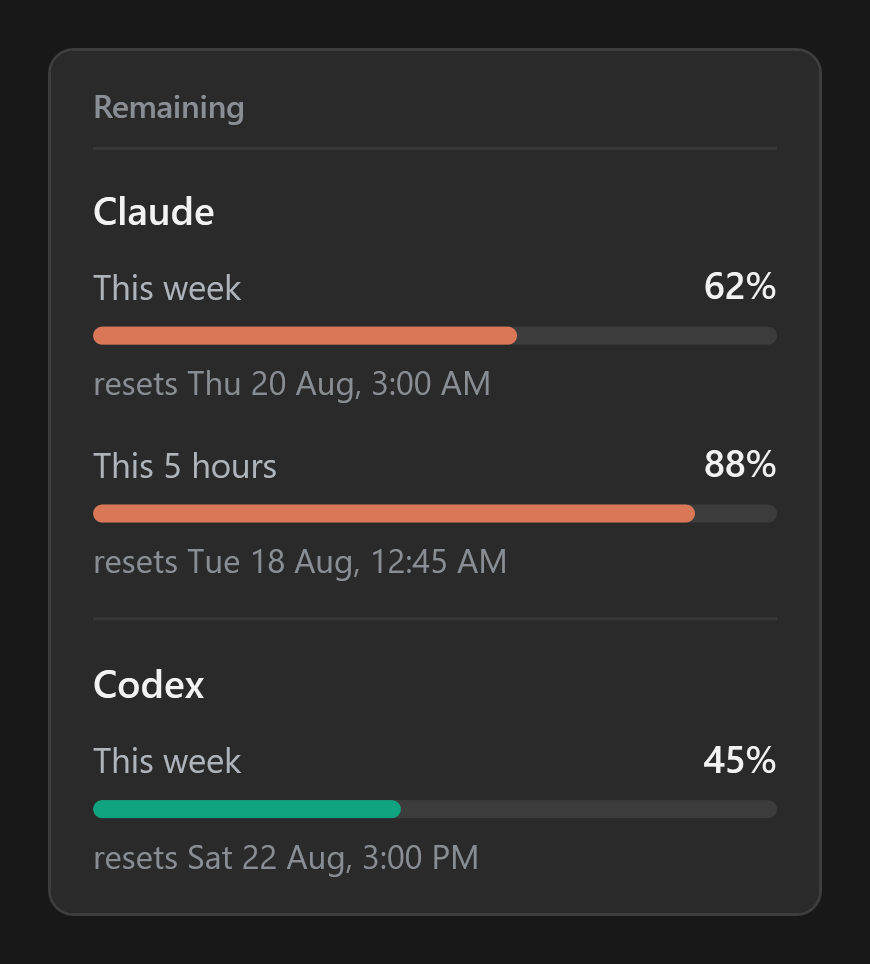
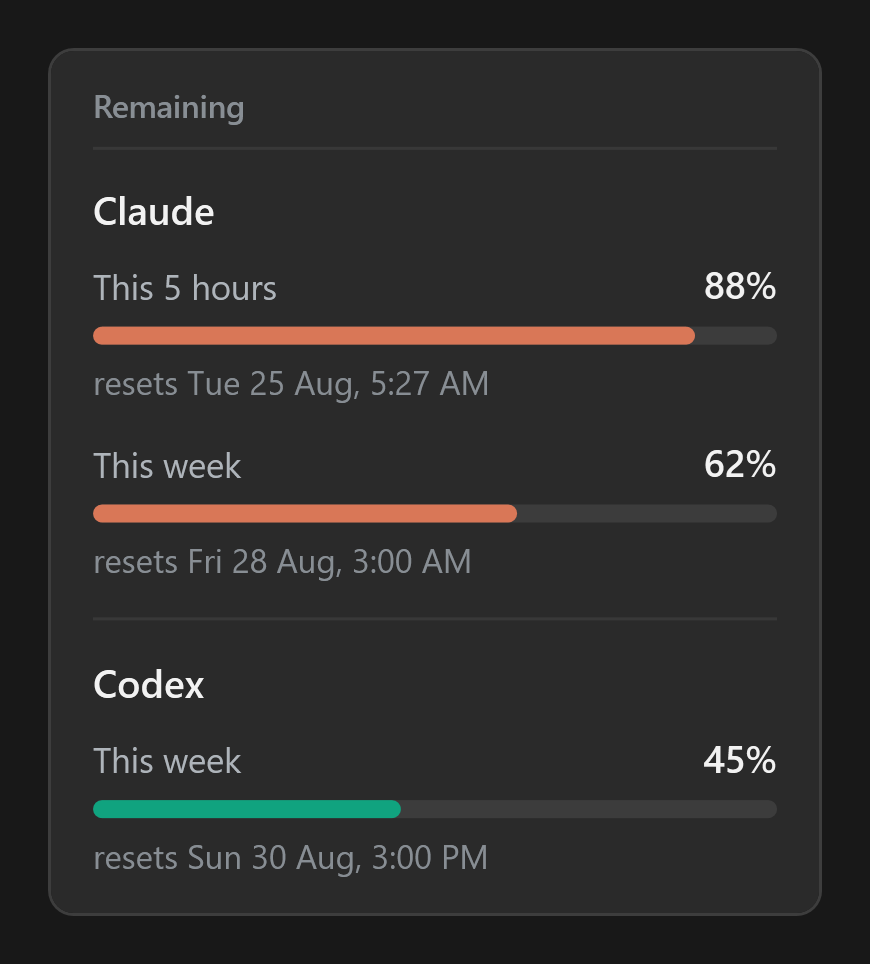
Colour the taskbar numbers and put the shorter limit first (#2)
What changed

The taskbar line now colours each number by how much is left: a soft light green at
75% and above, yellow from 25, and red below that. It used to be one colour with a
single amber warning under 20.

On the hover card, Claude's two rows swapped, so the five-hour limit sits above the
weekly one. Codex reports no five-hour window, so its single row did not move.

The card's amber warning moved from 20% to 25% so both surfaces warn at the same
moment, and version went to 1.1.0.

Why it changed

The whole point of this app is that you read it out of the corner of your eye, and a
colour lands faster than a number does.

Three bands rather than four. A four-band version was built first and dropped: four
steps between green and red sit close enough together that neighbours read as the same
colour at 13 pixels on a taskbar. The green is soft rather than vivid on purpose,
because most of the week nothing is wrong and a taskbar that keeps announcing that is
one you stop looking at.

The five-hour limit moved to the top because it is the one most likely to stop you
today, and the weekly number reads better as context underneath it.

How the changes were made

ChipLevel names the three bands and ChipText.LevelFor maps a number to one, so the rule
is a single tested function rather than a colour decision spread through the UI code.
ChipWindow holds the three brushes and one switch.

LevelFor bands on the rounded number, not the raw reading. 74.6 prints as "75%", so it
[…]

diff --git a/src/Usage.Core/ChipText.cs b/src/Usage.Core/ChipText.cs
@@ -4,6 +4,12 @@ namespace Usage.Core;
 
 public static class ChipText
 {
+    /// <summary>At or above this, the chip is light green.</summary>
+    public const double PlentyThreshold = 75;
+
+    // The bottom boundary is RemainingClient.LowRemainingThreshold rather than a second constant here, so the
+    // chip and the card can never drift apart again.
+
     /// <summary>The short segment shown on the taskbar chip, and the line the probe prints.</summary>
     public static string FormatProvider(string name, ProviderReading reading)
     {
@@ -39,6 +45,10 @@ public static class ChipText
     /// <summary>
     /// The limit windows to draw on the hover card. A window the provider did not report never appears here
     /// at all, which is why Codex has one row and Claude has two. Empty when the reading itself failed.
+    ///
+    /// Shortest window first, and deliberately so: the five-hour limit is the one that will actually stop you
+    /// today, so it belongs where the eye lands, and the weekly sits underneath it as the wider context.
+    /// Codex reports no session window, so its single weekly row is unaffected.
     /// </summary>
     public static IReadOnlyList<RemainingWindow> Windows(ProviderReading reading)
     {
@@ -48,14 +58,14 @@ public static class ChipText
         }
 
         var windows = new List<RemainingWindow>();
-        if (reading.WeeklyRemaining is { } weekly)
-        {
-            windows.Add(new RemainingWindow("This week", weekly, reading.WeeklyResetsAt));
-        }
-
         if (reading.FiveHourRemaining is { } session)
         {
             windows.Add(new RemainingWindow("This 5 hours", session, reading.FiveHourResetsAt));
+        }
+
+        if (reading.WeeklyRemaining is { } weekly)
+        {
+            windows.Add(new RemainingWindow("This week", weekly, reading.WeeklyResetsAt));
         }
 
         return windows;
@@ -84,6 +94,31 @@ public static class ChipText
 
     public static string Percent(double value) => Whole(value) + "%";
 
+    /// <summary>
+    /// Which of the three colour bands the chip should paint a provider in.
+    ///
+    /// It bands on the rounded number rather than the raw one, so the colour can never contradict the digits
+    /// printed right beside it. 74.6 prints as "75%", and a chip reading 75% in the sub-75 colour would look
+    /// like a bug to anyone who noticed it.
+    ///
+    /// This is also what decides <see cref="ProviderReading.IsLow"/>, so the card warns at exactly the moment
+    /// the chip turns red, on exactly the same rounded number.
+    /// </summary>
+    public static ChipLevel LevelFor(double remaining)
+    {
+        var shown = Rounded(remaining);
+
+        if (shown >= PlentyThreshold)
+        {
+            return ChipLevel.Plenty;
+        }
+
+        return shown >= RemainingClient.LowRemainingThreshold ? ChipLevel.Fair : ChipLevel.Low;
+    }
+
     private static string Whole(double value) =>
-        Math.Round(value, MidpointRounding.AwayFromZero).ToString("0", CultureInfo.InvariantCulture);
+        Rounded(value).ToString("0", CultureInfo.InvariantCulture);
+
+    /// <summary>The displayed number. Anything deciding a colour must use this, never the raw reading.</summary>
+    internal static double Rounded(double value) => Math.Round(value, MidpointRounding.AwayFromZero);
 }

diff --git a/src/Usage.Core.Tests/ChipTextTests.cs b/src/Usage.Core.Tests/ChipTextTests.cs
@@ -24,9 +24,38 @@ public class ChipTextTests
     [Fact]
     public void Marks_low_remaining()
     {
-        var reading = new ProviderReading(ReadingStatus.Ok, 19, null, null, null);
+        var reading = new ProviderReading(ReadingStatus.Ok, 24, null, null, null);
         Assert.True(reading.IsLow);
-        Assert.False(new ProviderReading(ReadingStatus.Ok, 20, null, null, null).IsLow);
+        Assert.False(new ProviderReading(ReadingStatus.Ok, 25, null, null, null).IsLow);
+
+        // The card warns off the same rounded number as the chip, so 24.5 prints "25%" and must not warn.
+        Assert.False(new ProviderReading(ReadingStatus.Ok, 24.5, null, null, null).IsLow);
+        Assert.True(new ProviderReading(ReadingStatus.Ok, 24.4, null, null, null).IsLow);
+    }
+
+    [Fact]
+    public void Chip_colour_bands_split_at_seventy_five_and_twenty_five()
+    {
+        Assert.Equal(ChipLevel.Plenty, ChipText.LevelFor(100));
+        Assert.Equal(ChipLevel.Plenty, ChipText.LevelFor(75));
+        Assert.Equal(ChipLevel.Fair, ChipText.LevelFor(74));
+        Assert.Equal(ChipLevel.Fair, ChipText.LevelFor(25));
+        Assert.Equal(ChipLevel.Low, ChipText.LevelFor(24));
+        Assert.Equal(ChipLevel.Low, ChipText.LevelFor(0));
+    }
+
+    [Fact]
+    public void Chip_colour_follows_the_number_the_chip_actually_prints()
+    {
+        // 74.6 prints as "75%", so it has to be the 75-and-up colour or the chip contradicts itself.
+        var reading = new ProviderReading(ReadingStatus.Ok, 74.6, null, null, null);
+        Assert.Equal("Claude 75%", ChipText.FormatProvider("Claude", reading));
+        Assert.Equal(ChipLevel.Plenty, ChipText.LevelFor(74.6));
+
+        // Same rule at the bottom: 24.5 prints as "25%" and must not be the under-25 colour.
+        Assert.Equal("Claude 25%", ChipText.FormatProvider("Claude", new ProviderReading(ReadingStatus.Ok, 24.5, null, null, null)));
+        Assert.Equal(ChipLevel.Fair, ChipText.LevelFor(24.5));
+        Assert.Equal(ChipLevel.Low, ChipText.LevelFor(24.4));
     }
 
     [Fact]
@@ -50,11 +79,12 @@ public class ChipTextTests
 
         var windows = ChipText.Windows(reading);
 
+        // Shortest window first, because the five-hour limit is the one that stops you today.
         Assert.Equal(2, windows.Count);
-        Assert.Equal("This week", windows[0].Label);
-        Assert.Equal(45, windows[0].Remaining);
-        Assert.Equal("This 5 hours", windows[1].Label);
-        Assert.Equal(33, windows[1].Remaining);
+        Assert.Equal("This 5 hours", windows[0].Label);
+        Assert.Equal(33, windows[0].Remaining);
+        Assert.Equal("This week", windows[1].Label);
+        Assert.Equal(45, windows[1].Remaining);
     }
 
     [Fact]
@@ -74,8 +104,8 @@ public class ChipTextTests
     public void A_window_below_the_threshold_is_marked_low_so_its_meter_turns_amber()
     {
         Assert.True(new RemainingWindow("This week", 2, null).IsLow);
-        Assert.True(new RemainingWindow("This 5 hours", 19, null).IsLow);
-        Assert.False(new RemainingWindow("This week", 20, null).IsLow);
+        Assert.True(new RemainingWindow("This 5 hours", 24, null).IsLow);
+        Assert.False(new RemainingWindow("This week", 25, null).IsLow);
         Assert.False(new RemainingWindow("This 5 hours", 88, null).IsLow);
     }
 

diff --git a/src/Usage.App/ChipWindow.xaml.cs b/src/Usage.App/ChipWindow.xaml.cs
@@ -31,6 +31,14 @@ internal partial class ChipWindow : Window
     private static readonly Brush LowBrush = Frozen(Color.FromRgb(255, 176, 32));
     private static readonly Brush QuietBrush = Frozen(Color.FromRgb(154, 160, 166));
 
+    // The chip's three bands, settled on 2026-08-25 after a four-band version was built and dropped.
+    // Three colours are far enough apart that no two of them can be confused, which four never quite managed.
+    // Plenty is deliberately a soft green rather than a vivid one: most of the time nothing is wrong, and the
+    // chip should not keep announcing that. The hover card keeps OkBrush and LowBrush and is untouched.
+    private static readonly Brush ChipPlentyBrush = Frozen(Color.FromRgb(143, 214, 162));
+    private static readonly Brush ChipFairBrush = Frozen(Color.FromRgb(255, 213, 79));
+    private static readonly Brush ChipLowBrush = Frozen(Color.FromRgb(255, 69, 58));
+
     private static readonly Brush CardBrush = Frozen(Color.FromRgb(42, 42, 42));
     private static readonly Brush CardBorderBrush = Frozen(Color.FromRgb(61, 61, 61));
     private static readonly Brush DividerBrush = Frozen(Color.FromRgb(56, 56, 56));
@@ -113,11 +121,19 @@ internal partial class ChipWindow : Window
         run.Text = ChipText.FormatProvider(name, reading);
         run.Foreground = reading.Status switch
         {
-            ReadingStatus.Ok when reading.IsLow => LowBrush,
+            ReadingStatus.Ok when reading.WeeklyRemaining is { } remaining => LevelBrush(ChipText.LevelFor(remaining)),
+            // Ok with no weekly number prints "--", which is not a reading worth colouring.
             ReadingStatus.Ok => OkBrush,
             _ => QuietBrush
         };
     }
+
+    private static Brush LevelBrush(ChipLevel level) => level switch
+    {
+        ChipLevel.Plenty => ChipPlentyBrush,
+        ChipLevel.Fair => ChipFairBrush,
+        _ => ChipLowBrush
+    };
 
     private static ToolTip BuildHoverCard(RemainingSnapshot snapshot)
     {

diff --git a/src/Usage.Core/Models.cs b/src/Usage.Core/Models.cs
@@ -16,6 +16,24 @@ public enum ReadingStatus
     NotInstalled
 }
 
+/// <summary>
+/// How full a provider still is, in the three steps the taskbar chip paints itself by.
+///
+/// The card does not paint itself in these three colours, but it does read the bottom band: its amber warning
+/// starts at exactly the same moment the chip turns red, off exactly the same rounded number.
+/// </summary>
+public enum ChipLevel
+{
+    /// <summary>Under 25% left. Red, and meant to be read as a warning.</summary>
+    Low,
+
+    /// <summary>25% up to 75% left. Yellow.</summary>
+    Fair,
+
+    /// <summary>75% or more left. A soft light green that is not trying to catch the eye.</summary>
+    Plenty
+}
+
 public sealed record ProviderReading(
     ReadingStatus Status,
     double? WeeklyRemaining,
@@ -38,9 +56,13 @@ public sealed record ProviderReading(
     /// <summary>True when this provider should not appear anywhere in the UI at all.</summary>
     public bool IsHidden => Status == ReadingStatus.NotInstalled;
 
+    /// <summary>
+    /// True once this provider is low enough to warn about. It defers to the chip's own band function, so the
+    /// card can never warn at a different moment, or off a different number, than the taskbar text does.
+    /// </summary>
     public bool IsLow => Status == ReadingStatus.Ok
         && WeeklyRemaining is { } remaining
-        && remaining < RemainingClient.LowRemainingThreshold;
+        && ChipText.LevelFor(remaining) == ChipLevel.Low;
 }
 
 public sealed record RemainingSnapshot(ProviderReading Claude, ProviderReading Codex);
@@ -52,5 +74,5 @@ public sealed record RemainingSnapshot(ProviderReading Claude, ProviderReading C
 /// </summary>
 public sealed record RemainingWindow(string Label, double Remaining, DateTimeOffset? ResetsAt)
 {
-    public bool IsLow => Remaining < RemainingClient.LowRemainingThreshold;
+    public bool IsLow => ChipText.LevelFor(Remaining) == ChipLevel.Low;
 }

diff --git a/src/Usage.Core/RemainingClient.cs b/src/Usage.Core/RemainingClient.cs
@@ -19,7 +19,13 @@ namespace Usage.Core;
 /// </summary>
 public sealed class RemainingClient : IDisposable
 {
-    public const double LowRemainingThreshold = 20;
+    /// <summary>
+    /// Under this, everything that can warn does: the chip turns red and the card turns amber. Deliberately
+    /// one number rather than two that happen to agree. The chip and the card briefly carried separate
+    /// thresholds, which left a thin sliver where a red taskbar sat beside a calm card. It was 20 before
+    /// 2026-08-25.
+    /// </summary>
+    public const double LowRemainingThreshold = 25;
     public static readonly TimeSpan RefreshInterval = TimeSpan.FromMinutes(3);
 
     internal const string ClaudeUsageUrl = "https://api.anthropic.com/api/oauth/usage";

diff --git a/README.md b/README.md
@@ -18,16 +18,28 @@ surprised by a limit you did not see coming.
 
 **The line on the taskbar.** Always there. It updates itself every few minutes.
 
+**Each number is coloured by how much is left**, so you can read it without really reading it:
+
+| Left | Colour |
+| --- | --- |
+| 75% and up | light green |
+| 25% to 75% | yellow |
+| under 25% | red |
+
+The green is a soft one on purpose. Most of the time nothing is wrong, and a taskbar that keeps announcing that
+in bright green is a taskbar you stop looking at. Red is the one moment it wants your attention.
+
 **Hover your mouse over it** and a small card appears with the detail:
 
 ![The hover card](docs/hover-card.png)
 
 Each bar is one limit. It shows how much is left and the exact time it refills.
 
-Claude has two limits, so it gets two bars:
+Claude has two limits, so it gets two bars, shortest first:
 
+- **This 5 hours** is a shorter limit that refills more often, roughly every five hours. It is the one most
+  likely to stop you today, so it sits on top.
 - **This week** is your weekly allowance.
-- **This 5 hours** is a shorter limit that refills more often, roughly every five hours.
 
 Codex only reports a weekly limit, so it only gets one bar. Usage never invents a bar for something a provider
 did not actually report.
@@ -40,7 +52,7 @@ pretend it is current.
 
 ## Install
 
-1. Download `Usage-Setup-1.0.0.exe` from the
+1. Download `Usage-Setup-1.1.0.exe` from the
    [latest release](https://github.com/MeltTheManual/Usage-Taskbar/releases/latest).
 2. Run it and follow the steps.
 
@@ -68,7 +80,7 @@ If you would rather check before trusting it, the release notes list the file's 
 of the exact file that was published. You can compare it with this in PowerShell:
 
 ```powershell
-Get-FileHash .\Usage-Setup-1.0.0.exe -Algorithm SHA256
+Get-FileHash .\Usage-Setup-1.1.0.exe -Algorithm SHA256
 ```
 
 If the two match, the file you downloaded is exactly the one that was published.
